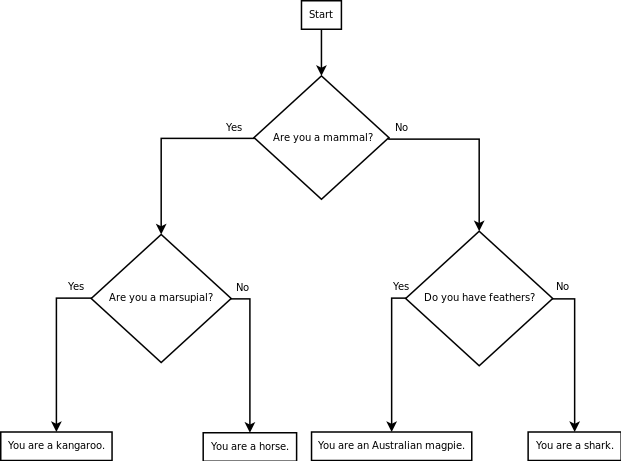
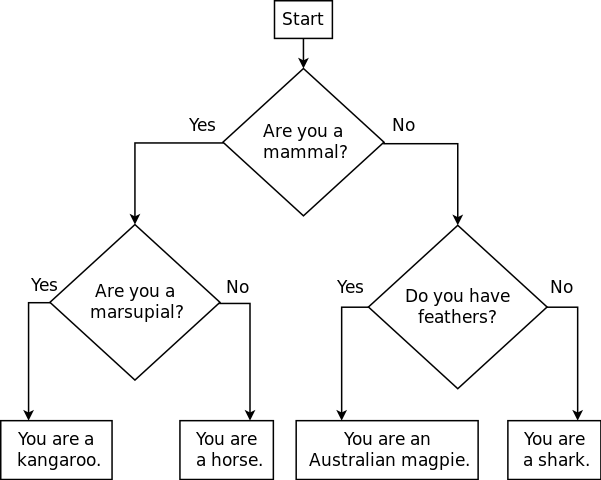
improvements to flowchart

diff --git a/labs/lab05.md b/labs/lab05.md
@@ -15,4 +15,4 @@ Consider the following animal classification flowchart:
 
 > ![Animal classification flowchart](images/lab05/animals.png)
 
-Yeah.
+This flowchart describes how to ask the user to answer some yes/no questions in order to determine what kind of animal she is.  (We'll admit that this may not be 100% accurate for all animals.)
